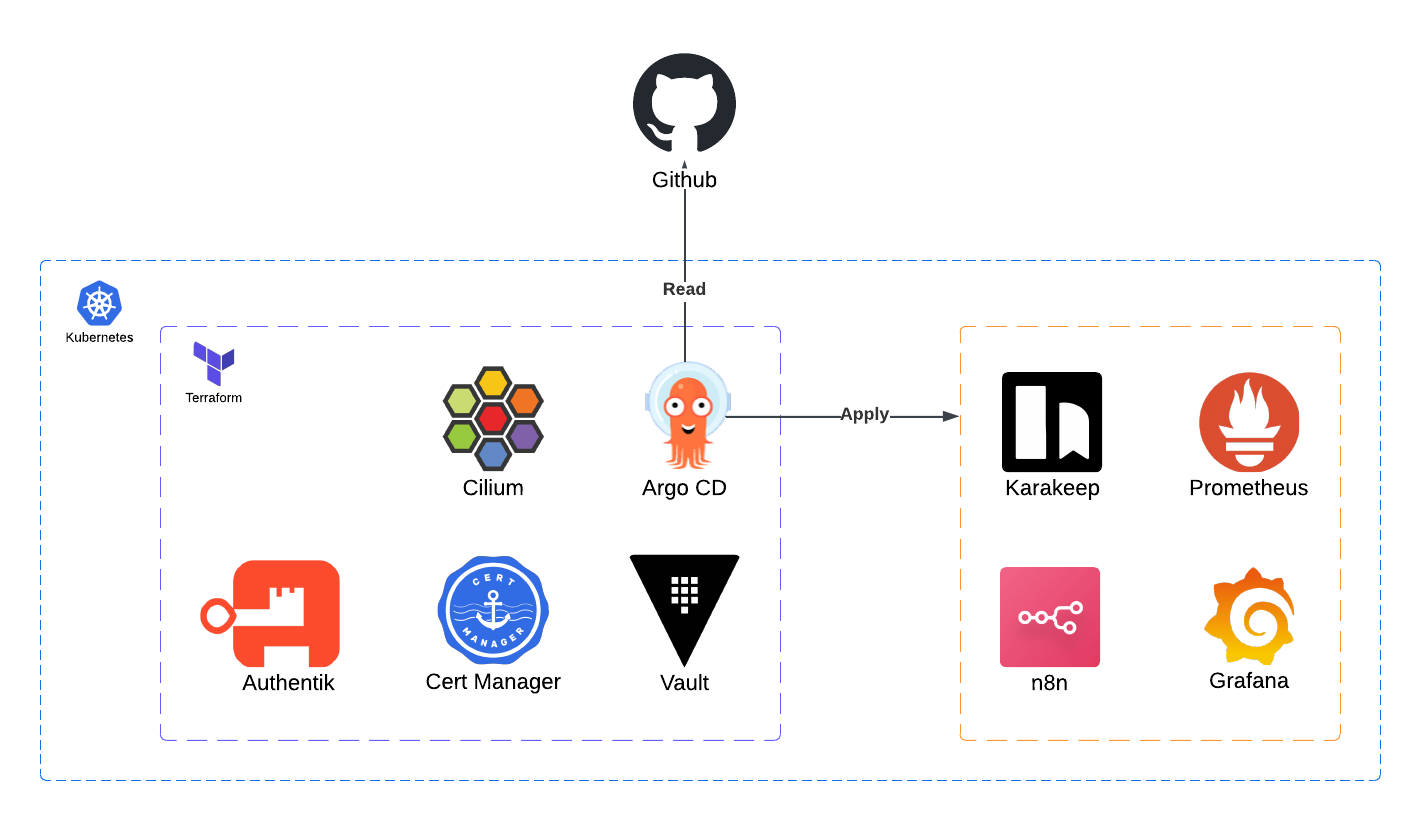
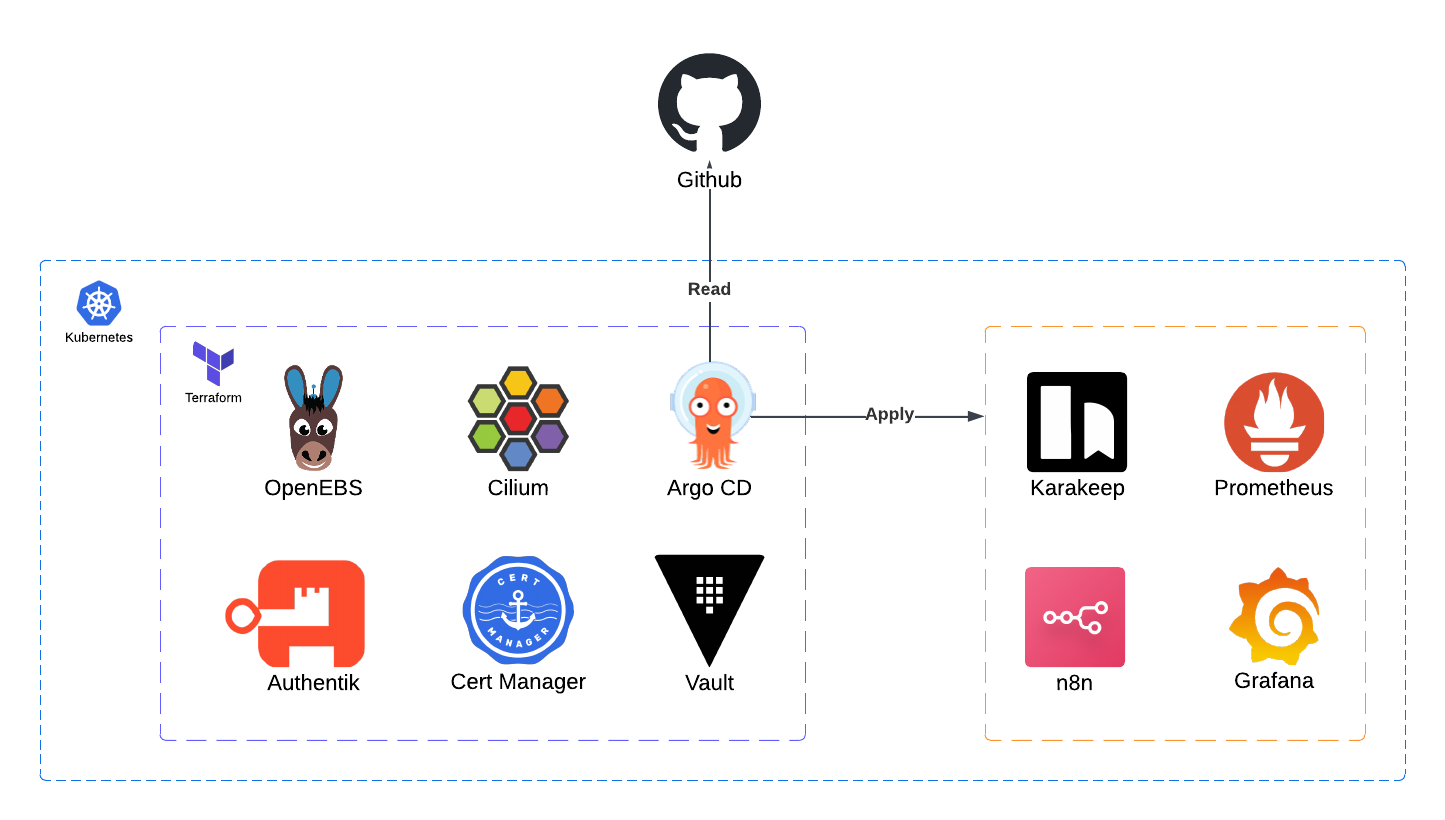
doc: Terraform docs update for OpenEBS

diff --git a/README.md b/README.md
@@ -13,6 +13,7 @@ This design tracks and versions all infrastructure changes, making it easy to re
 ### Key Components
 - Cilium: Provides cluster networking, replaces kube-proxy, and implements the Gateway API used to expose services.
 - Cert Manager: Manages TLS certificates using Let’s Encrypt. DNS challenge is handled through Cloudflare.
+- OpenEBS: Provides dynamic persistent storage through Kubernetes-native storage classes, supporting both local and replicated volumes.
 - Vault: Central source of truth for secrets such as API keys, database credentials, and service configuration.
 - Vault Secrets Operator (VSO): Syncs secrets from Vault into native Kubernetes Secrets so workloads can consume them without embedding sensitive data in manifests or repositories.
 - Authentik: Identity provider for authentication and SSO across cluster services.
@@ -23,26 +24,13 @@ This design tracks and versions all infrastructure changes, making it easy to re
 ## Getting Started
 For my setup, I use Talos Linux because it’s lightweight, minimal, and built specifically for running Kubernetes. Kubernetes on Ubuntu works as well, but make sure your cluster has no CNI installed before proceeding. For Talos, you can check the [documentation](./talos/README.md) I made and use the provided script to generate machine configs for control planes and workers with preconfigured settings applied via a patch template. It saves time, and all you need to do is apply the configs onto the machines after booting Talos.
 
-With the cluster ready, the next step is provisioning the platform stack with [Terraform](./terraform/README.md). Terraform lays down the base layer of the cluster by applying a series of ordered phases that install and configure components like Cilium, Cert Manager, Vault, Authentik, and Argo CD. Each phase lives in its own directory and is meant to be applied in sequence.
+With the cluster ready, the next step is provisioning the platform stack with [Terraform](./terraform/README.md). Terraform lays down the base layer of the cluster by applying a series of ordered phases that install and configure components like Cilium, Cert Manager, OpenEBS, Vault, Authentik, and Argo CD. Each phase lives in its own directory and is meant to be applied in sequence.
 
 Once Terraform finishes laying down the core platform components, Argo CD takes the wheel. The repository follows an App-of-Apps pattern, where syncing the root application triggers the deployment of all other applications and keeps them continuously reconciled through GitOps.
 
 <!-- ### Architecture -->
 
 <!-- ### Hardware Used -->
-
-### Notes
-- The current design is based on a single-node cluster and uses Kubernetes `hostPath` for persistent storage on the local node, with plans to introduce a scalable storage solution later.
-- In case no one told you, always back up your data before upgrading anything. For example, Vault does not guarantee backward compatibility for its data store, so having a backup is essential.
-- Internal service domains (e.g. `authentik.homelab.example.com`) are resolved locally by mapping `*.homelab.example.com` to the Gateway service IP, either via CoreDNS or a network-level DNS, avoiding public DNS and per-pod host aliases in a private home network.
-  - Example below modifies CoreDNS' `ConfigMap`.
-    ```
-    template IN A homelab.example.com {
-      match \.homelab\.example\.com
-      answer "{{ .Name }} 60 IN A <GATEWAY_SVC_IP>"
-      fallthrough
-    }
-    ```
 
 ## To-do
 What's planned for the homelab as it evolves. Ideas below may change and more may be added.
@@ -64,7 +52,7 @@ What's planned for the homelab as it evolves. Ideas below may change and more ma
 
 ### Scalability
 - [ ] Turn the cluster into a 3 nodes cluster (buy 3 mini-PCs)
-- [ ] Storage scalability (e.g. OpenEBS, Rook with Ceph, etc.)
+- [x] Storage scalability (e.g. OpenEBS, Rook Ceph, etc.)
 - [ ] Setup [CloudNativePG](https://cloudnative-pg.io/)
 
 ### Security

diff --git a/terraform/README.md b/terraform/README.md
@@ -12,7 +12,7 @@ Vault and Authentik configurations are intentionally managed through Terraform t
 
 ### Terraform Phases
 Components are provisioned through five Terraform projects (phases), which must be executed in order:
-- `phase01`: Deploys Cilium as the CNI with Gateway API enabled and deploys Cert Manager.
+- `phase01`: Deploys Cilium as the CNI with Gateway API enabled, Cert Manager, and OpenEBS to provide dynamic persistent storage (local or replicated), avoiding manual PV management.
 - `phase02`: Creates a single Gateway and deploys Vault along with the Vault Secrets Operator (VSO).
 - `phase03`: Manages Vault configuration as code and creates VSO connection resources for global authentication.
 - `phase04`: Deploys PostgreSQL and Authentik as the central identity provider and SSO solution.
@@ -25,51 +25,15 @@ Components are provisioned through five Terraform projects (phases), which must 
   - For Cert Manager's DNS challenge.
 
 ### Notes
-- This setup currently targets a single-node cluster and uses `hostPath` volumes for persistent storage.
-- Required directories and permissions must be created manually before deploying workloads that rely on persistent volumes.
-- The following script creates the necessary directories and sets proper ownership for each application. You may execute it after `phase01` is done:
-  ```bash
-  kubectl label namespace default pod-security.kubernetes.io/enforce=privileged --overwrite
-
-  kubectl apply -f - <<'EOF'
-  apiVersion: v1
-  kind: Pod
-  metadata:
-    name: dirs-creator
-  spec:
-    restartPolicy: Never
-    containers:
-    - name: dirs-creator
-      image: alpine
-      command:
-        - sh
-        - -c
-        - |
-          mkdir /var/mnt/homelab/vault
-          chown 100:1000 /var/mnt/homelab/vault
-          mkdir -p /var/mnt/homelab/authentik/postgres
-          mkdir -p /var/mnt/homelab/authentik/media
-          mkdir -p /var/mnt/homelab/authentik/templates
-          chown -R 1000:1000 /var/mnt/homelab/authentik
-          ls -l /var/mnt/homelab
-      volumeMounts:
-        - name: homelab
-          mountPath: /var/mnt/homelab
-    volumes:
-      - name: homelab
-        hostPath:
-          path: /var/mnt/homelab
-          type: Directory
-  EOF
-
-  kubectl wait --for=condition=Completed pod/dirs-creator --timeout=10s
-
-  kubectl logs dirs-creator
-
-  kubectl delete pod dirs-creator
-
-  kubectl label namespace default pod-security.kubernetes.io/enforce- --overwrite
-  ```
+- Internal service domains (e.g. `authentik.homelab.example.com`) are resolved locally by mapping `*.homelab.example.com` to the Gateway service IP, either via CoreDNS or a network-level DNS, avoiding public DNS and per-pod host aliases in a private home network.
+  - Example below modifies CoreDNS' `ConfigMap`.
+    ```
+    template IN A homelab.example.com {
+      match \.homelab\.example\.com
+      answer "{{ .Name }} 60 IN A <GATEWAY_SVC_IP>"
+      fallthrough
+    }
+    ```
 
 ### Providers Used
 - HashiCorp Kubernetes [provider](https://registry.terraform.io/providers/hashicorp/kubernetes/latest/docs).

diff --git a/terraform/phase01/README.md b/terraform/phase01/README.md
@@ -16,6 +16,12 @@ This phase deploys Cilium as the CNI with Gateway API enabled and L2 load balanc
 - Creates Kubernetes secret with Cloudflare API token for `ClusterIssuer` in `phase02`.
 - Handles TLS certificate issuance and lifecycle management.
 
+### OpenEBS
+- Deploys OpenEBS using the Helm provider.
+- Provides storage for the cluster using the LocalPV provisioner for node-local persistent volumes.
+- Can be extended with Mayastor to support replicated and distributed storage across nodes.
+- Acts as the primary storage layer for persisting volumes.
+
 ## Steps
 1. Initialize Terraform `terraform init`.
 2. Create `terraform.tfvars`:
@@ -30,6 +36,7 @@ This phase deploys Cilium as the CNI with Gateway API enabled and L2 load balanc
 
 ### Outputs
 - `cluster_issuer_secret_name` for `ClusterIssuer` resource in `phase02`.
+- `host_storage_class_name` is used by any application that requires persistent volumes, such as Vault in `phase02` and Authentik (including its PostgreSQL database) in `phase04`.
 
 ### References
 - Cert Manager Helm values: https://artifacthub.io/packages/helm/cert-manager/cert-manager
@@ -37,3 +44,4 @@ This phase deploys Cilium as the CNI with Gateway API enabled and L2 load balanc
 - Cert Manager Cloudflare's DNS challenge: https://cert-manager.io/docs/configuration/acme/dns01/cloudflare/
 - Cilium Gateway API setup with Cert Manager: https://blog.stonegarden.dev/articles/2023/12/cilium-gateway-api
 - Cilium deployment on Talos Linux: https://docs.siderolabs.com/kubernetes-guides/cni/deploying-cilium
+- OpenEBS Helm values: https://github.com/openebs/openebs/blob/develop/charts/README.md

diff --git a/terraform/phase04/README.md b/terraform/phase04/README.md
@@ -5,13 +5,12 @@ This phase deploys Authentik with a PostgreSQL database. Authentik is used as th
 
 ### PostgreSQL
 - Deploys PostgreSQL as a StatefulSet for Authentik data persistence.
-- Creates persistent volume to retain data.
 - Database password is randomly generated.
 - Dedicated for Authentik only.
 
 ### Authentik
 - Deploys Authentik using Helm provider.
-- Creates 2 persistent volumes: One for media and the other for templates.
+- Creates 2 persistent volume claims: One for media and the other for templates.
 - Exposes Authentik through the Gateway using an `HTTPRoute`.
 - Retrieves sensitive configuration (e.g. SMTP credentials) from Vault via VSO using `VaultStaticSecret`.
 - Serves as the central SSO solution for services within the cluster.

diff --git a/terraform/phase02/README.md b/terraform/phase02/README.md
@@ -14,7 +14,6 @@ This phase deploys Gateway resource, Vault, and Vault Secrets Operator (VSO). Al
 - Acts as the single entry point for all inbound traffic into the cluster.
 
 ### Vault
-- Creates persistent volumes for Vault data storage.
 - Creates a Cert Manager `Certificate` resource to issue the TLS secret.
     - The TLS secret is mounted into the Vault pod to enable end-to-end TLS.
 - Creates an `HTTPRoute` to handle HTTP to HTTPS redirection.
